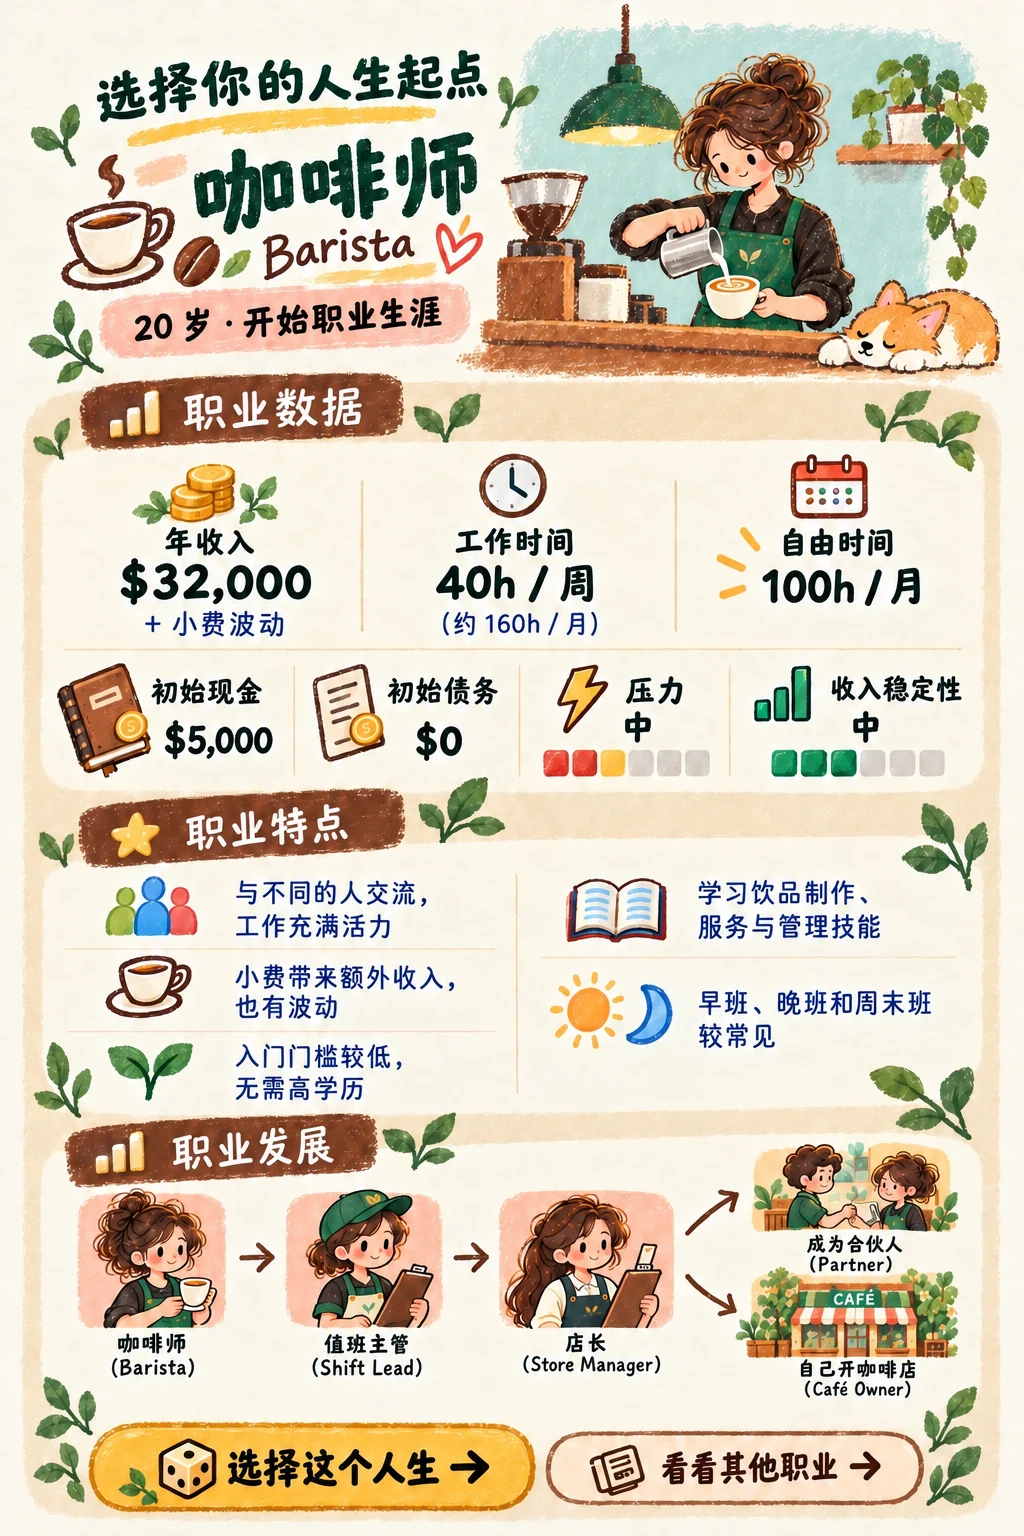
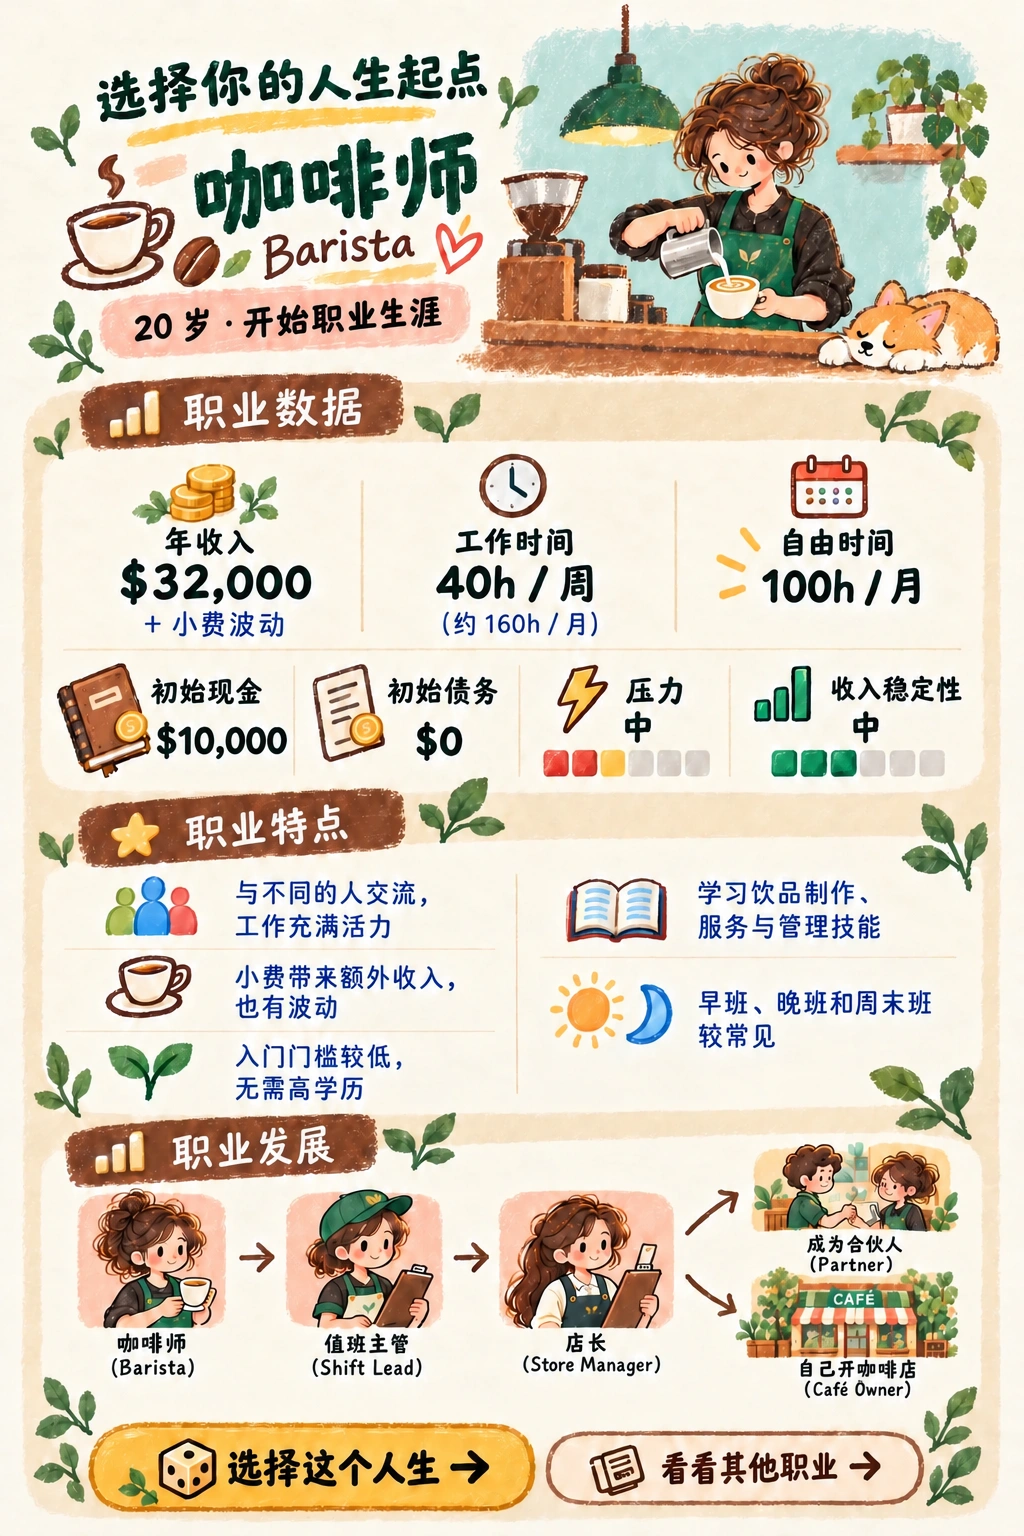
Update barista preview cash artwork and preserve career navigation

diff --git a/sw.js b/sw.js
@@ -1,5 +1,5 @@
-const CACHE='wealth-life-v28.3-home-end1';
-const ASSETS=["./map-card-data.js?v=28.3-mapcards1", "./map-card-rules.js?v=28.3-mapcards1", "./map-card-system.js?v=28.3-mapcards1", "./map-card.css?v=28.3-mapcards1", "./assets/career/map-pet-unwell.webp", "./assets/career/map-pet-injury.webp", "./assets/career/map-pet-companion.webp", "./assets/career/map-pet-social.webp", "./assets/career/map-pet-mishap.webp", "./assets/career/map-investment-studio.webp", "./assets/career/map-investment-bun-shop.webp", "./assets/career/map-investment-laundry.webp"] .concat(["./cafe-rules.js?v=28.3-manager1","./cafe-system.js?v=28.3-manager1","./career-entry.js?v=28.3-entry1","./career-entry.css?v=28.3-entry1","./assets/career/shift-promotion-pending.webp","./assets/career/shift-promotion-preview.webp","./assets/career/coffee-course.webp","./pet-adoption.js?v=28.3-candidate1","./candidate-art.js?v=28.3-candidate1","./assets/career/barista-portrait.webp","./assets/career/pet-time-shortage.webp","./assets/career/pet-funds-shortage.webp","./assets/career/pet-crocodile-care.webp","./assets/career/bank-application.webp","./assets/career/bank-payment.webp","./housing-art.js?v=28.3-housing1","./assets/career/housing-select.webp","./assets/career/housing-reserve.webp","./assets/career/living-cost.webp","./return-art.js?v=28.3-return1","./assets/career/insurance.webp","./assets/career/return-energy.webp","./assets/career/return-stress.webp","./assets/career/payday.webp","./health-art.js?v=28.3-health1","./assets/career/rest-arrange.webp","./assets/career/rest-complete.webp","./assets/career/hospital-recovery.webp","./assets/career/month-recovery.webp","./education-art.js?v=28.3-education1","./assets/career/degrees.webp","./assets/career/associate-preview.webp","./learning-art.js?v=28.3-learning1","./assets/career/learning.webp","./assets/career/management-course.webp","./assets/career/service-course.webp","./hobby-art.js?v=28.3-room2","./assets/career/hobbies.webp","./home-scene.js?v=28.3-home-end1","./home-scene.css?v=28.3-candidate1","./assets/career/home.webp","./release-info.js?v=28.3-internal1","./financial-crisis.js?v=28.3-internal1","./four-state.js?v=28.3-internal1","./rest-state.js?v=28.3-internal1","./coffee-salary.js?v=28.3-internal1","./housing-lease.js?v=28.3-internal1","./pet-care.js?v=28.3-internal1","./necessary-bills.js?v=28.3-internal1","./recovery-ui.js?v=28.3-internal1","./medical-insurance.js?v=28.3-internal1","./recovery-rules.js?v=28.3-internal1","./time-ledger.js?v=28.3-internal1","./time-flow.js?v=28.3-home-end1","./assets/career/town.webp","./coffee-career.js?v=28.3-mapcards1", "./assets/career/barista-staff.webp", "./assets/career/barista-busy.webp", "./assets/career/barista-cut.webp", "./assets/career/barista-tip.webp", "./assets/career/barista-departure.webp", "./assets/career/shift-training.webp", "./assets/career/shift-schedule.webp", "./assets/career/shift-schedule-success.webp", "./assets/career/shift-schedule-failure.webp", "./assets/career/shift-complaint.webp", "./assets/career/shift-complaint-success.webp", "./assets/career/shift-complaint-failure.webp", "./assets/career/shift-acting.webp", "./assets/career/shift-acting-success.webp", "./assets/career/shift-acting-failure.webp", "./assets/career/shift-praise.webp", "./assets/career/intro.webp"] .concat(["./shift-lead.js?v=28.3-internal1","./shift-lead.css?v=28.3-internal1","./paper.css?v=28.3-internal1",'./coffee.js?v=28.3-internal1','./town.js?v=28.3-internal1','./','./index.html','./core.js','./flow.js?v=28.3-internal1','./journey.js?v=28.3-internal1','./batch.js?v=28.3-mapcards1','./revision.js?v=28.3-internal1','./annual.js?v=28.3-internal1','./core.js?v=28.3-mapcards1','./presentation.js?v=28.3-candidate1','./presentation.css?v=28.3-internal1','./city.svg','./manifest.webmanifest','./icons/icon-192.png','./icons/icon-512.png']));
+const CACHE='wealth-life-v28.3-entry2';
+const ASSETS=["./map-card-data.js?v=28.3-mapcards1", "./map-card-rules.js?v=28.3-mapcards1", "./map-card-system.js?v=28.3-mapcards1", "./map-card.css?v=28.3-mapcards1", "./assets/career/map-pet-unwell.webp", "./assets/career/map-pet-injury.webp", "./assets/career/map-pet-companion.webp", "./assets/career/map-pet-social.webp", "./assets/career/map-pet-mishap.webp", "./assets/career/map-investment-studio.webp", "./assets/career/map-investment-bun-shop.webp", "./assets/career/map-investment-laundry.webp"] .concat(["./cafe-rules.js?v=28.3-manager1","./cafe-system.js?v=28.3-manager1","./career-entry.js?v=28.3-entry2","./career-entry.css?v=28.3-entry2","./assets/career/shift-promotion-pending.webp","./assets/career/shift-promotion-preview.webp","./assets/career/coffee-course.webp","./pet-adoption.js?v=28.3-candidate1","./candidate-art.js?v=28.3-candidate1","./assets/career/barista-portrait.webp","./assets/career/pet-time-shortage.webp","./assets/career/pet-funds-shortage.webp","./assets/career/pet-crocodile-care.webp","./assets/career/bank-application.webp","./assets/career/bank-payment.webp","./housing-art.js?v=28.3-housing1","./assets/career/housing-select.webp","./assets/career/housing-reserve.webp","./assets/career/living-cost.webp","./return-art.js?v=28.3-return1","./assets/career/insurance.webp","./assets/career/return-energy.webp","./assets/career/return-stress.webp","./assets/career/payday.webp","./health-art.js?v=28.3-health1","./assets/career/rest-arrange.webp","./assets/career/rest-complete.webp","./assets/career/hospital-recovery.webp","./assets/career/month-recovery.webp","./education-art.js?v=28.3-education1","./assets/career/degrees.webp","./assets/career/associate-preview.webp","./learning-art.js?v=28.3-learning1","./assets/career/learning.webp","./assets/career/management-course.webp","./assets/career/service-course.webp","./hobby-art.js?v=28.3-room2","./assets/career/hobbies.webp","./home-scene.js?v=28.3-home-end1","./home-scene.css?v=28.3-candidate1","./assets/career/home.webp","./release-info.js?v=28.3-internal1","./financial-crisis.js?v=28.3-internal1","./four-state.js?v=28.3-internal1","./rest-state.js?v=28.3-internal1","./coffee-salary.js?v=28.3-internal1","./housing-lease.js?v=28.3-internal1","./pet-care.js?v=28.3-internal1","./necessary-bills.js?v=28.3-internal1","./recovery-ui.js?v=28.3-internal1","./medical-insurance.js?v=28.3-internal1","./recovery-rules.js?v=28.3-internal1","./time-ledger.js?v=28.3-internal1","./time-flow.js?v=28.3-home-end1","./assets/career/town.webp","./coffee-career.js?v=28.3-mapcards1", "./assets/career/barista-staff.webp", "./assets/career/barista-busy.webp", "./assets/career/barista-cut.webp", "./assets/career/barista-tip.webp", "./assets/career/barista-departure.webp", "./assets/career/shift-training.webp", "./assets/career/shift-schedule.webp", "./assets/career/shift-schedule-success.webp", "./assets/career/shift-schedule-failure.webp", "./assets/career/shift-complaint.webp", "./assets/career/shift-complaint-success.webp", "./assets/career/shift-complaint-failure.webp", "./assets/career/shift-acting.webp", "./assets/career/shift-acting-success.webp", "./assets/career/shift-acting-failure.webp", "./assets/career/shift-praise.webp", "./assets/career/intro.webp"] .concat(["./shift-lead.js?v=28.3-internal1","./shift-lead.css?v=28.3-internal1","./paper.css?v=28.3-internal1",'./coffee.js?v=28.3-internal1','./town.js?v=28.3-internal1','./','./index.html','./core.js','./flow.js?v=28.3-internal1','./journey.js?v=28.3-internal1','./batch.js?v=28.3-mapcards1','./revision.js?v=28.3-internal1','./annual.js?v=28.3-internal1','./core.js?v=28.3-mapcards1','./presentation.js?v=28.3-candidate1','./presentation.css?v=28.3-internal1','./city.svg','./manifest.webmanifest','./icons/icon-192.png','./icons/icon-512.png']));
 self.addEventListener('install',e=>{self.skipWaiting();e.waitUntil(caches.open(CACHE).then(c=>c.addAll(ASSETS)))});
 self.addEventListener('activate',e=>e.waitUntil(Promise.all([caches.keys().then(keys=>Promise.all(keys.filter(k=>k.startsWith('wealth-life-')&&k!==CACHE).map(k=>caches.delete(k)))),self.clients.claim()])));
 // Register the cache lifetime synchronously while the fetch event is active.

diff --git a/career-entry.css b/career-entry.css
@@ -13,5 +13,19 @@
 #home.career-preview #coffeeIntro .coffee-intro-choose{position:static;width:100%;min-height:48px;padding:12px;left:auto;bottom:auto;background:#efd16e;font-size:18px}
 
 #home.career-preview #newGame>label:first-of-type{display:none}
-.career-entry-preview-art{position:relative;aspect-ratio:1086/370;overflow:hidden;border-radius:14px}
+.career-entry-preview-art{position:relative;aspect-ratio:1024/1410;overflow:hidden;border-radius:14px}
 #home.career-preview #coffeeIntro .career-entry-preview-art img{position:absolute;left:0;top:0;width:100%;height:auto}
+/* Preview the corrected poster; real controls below it keep the original actions. */
+#home.career-preview #coffeeIntro .coffee-intro-toolbar,
+#home.career-preview #coffeeIntro .coffee-intro-text,
+#home.career-preview #coffeeIntro .coffee-intro-choose,
+#home.career-preview #coffeeIntro .coffee-intro-note,
+#home.career-preview #newGame>label,
+#home.career-preview #lifeGoal,
+#home.career-preview #goalPreview{display:none!important}
+#home.career-preview #coffeeIntro .coffee-intro-board{grid-template-columns:minmax(0,1fr)}
+#home.career-preview #wlJob .coffee-paper-scene{position:static;padding:0}
+#home.career-preview #wlJob .coffee-paper-scene img{max-width:none}
+#home.career-preview #newGame>.btns{display:flex;gap:10px}
+#home.career-preview #start,#home.career-preview #cancel{flex:1;width:auto;min-height:48px!important;font-size:18px}
+#home.career-preview #cancel{background:#f2e9d3;color:#30473c}

diff --git a/career-entry.js b/career-entry.js
@@ -9,6 +9,8 @@
  function preview(){starting=false;$('job').value='barista';$('job').dispatchEvent(new Event('change',{bubbles:true}));const img=$('coffeeIntro')?.querySelector('.coffee-paper-scene img');if(img){const frame=document.createElement('div');frame.className='career-entry-preview-art';img.before(frame);frame.append(img)}setMode('preview');$('coffeeIntro')?.scrollIntoView({block:'start'});}
  const originalMarkup=window.coffeeStartMarkup;
  window.coffeeStartMarkup=function(){return originalMarkup().replace('← 返回存档','← 返回职业选择')};
+ $('start').textContent='选择这个人生';
+ $('cancel').textContent='看看其他职业';
  $('careerPreview').onclick=preview;
  $('careerLoadSaves').onclick=()=>{setMode('saves');buildHome();$('slots').querySelector('button')?.focus()};
  const originalBuild=buildHome;

diff --git a/index.html b/index.html
@@ -582,8 +582,8 @@ window.v245OpenHousing=()=>document.getElementById('housingBtn').click();
 <script src="housing-art.js?v=28.3-housing1"></script>
 <script src="pet-adoption.js?v=28.3-candidate1"></script>
 <script src="candidate-art.js?v=28.3-candidate1"></script>
-<link rel="stylesheet" href="career-entry.css?v=28.3-entry1">
-<script src="career-entry.js?v=28.3-entry1"></script>
+<link rel="stylesheet" href="career-entry.css?v=28.3-entry2">
+<script src="career-entry.js?v=28.3-entry2"></script>
 <script src="cafe-rules.js?v=28.3-manager1"></script>
 <script src="cafe-system.js?v=28.3-manager1"></script>
 <script src="map-card-data.js?v=28.3-mapcards1"></script>

diff --git a/qa/browser-month-loop.py b/qa/browser-month-loop.py
@@ -63,7 +63,7 @@ with sync_playwright() as p:
  ctx=b.new_context();page=ctx.new_page();page.goto('http://127.0.0.1:8765',wait_until='networkidle')
  page.evaluate('navigator.serviceWorker.ready');page.reload(wait_until='networkidle')
  page.wait_for_function('navigator.serviceWorker.controller!==null')
- assert page.evaluate('caches.keys()')==['wealth-life-v28.3-home-end1']
+ assert page.evaluate('caches.keys()')==['wealth-life-v28.3-entry2']
  ctx.set_offline(True);page.reload(wait_until='networkidle')
  (page.locator('#careerPreview') if page.locator('#careerPreview').is_visible() else page.get_by_role('button',name='存档 1 · 新游戏',exact=True)).click();page.locator('#job').select_option('barista')
  assert page.locator('#coffeeIntro img').evaluate('(x)=>x.complete&&x.naturalWidth>0')

diff --git a/docs/confirmed/opening-review-2026-10-25.md b/docs/confirmed/opening-review-2026-10-25.md
@@ -1,0 +1,29 @@
+# 开场逐页核对（2026-10-25）
+
+本文件记录本次用户逐页确认；不替代尚未核对的后续规则。
+
+- 当前优先跑通咖啡师，其他职业暂不安排。
+- 用户确认职业选择页人物图使用 `assets/career/barista-portrait.webp`（棕色丸子头、墨绿围裙、手捧咖啡）。
+- 用户确认保留人物图下方现有按钮。代码实际文案为“查看职业预览”，不改为“选择该页”；口述“浏览”指此按钮。
+- 该按钮打开职业预览，现有插画来源为 `assets/career/intro.webp`。
+
+## 初始现金查证（尚非本次新决定）
+
+用户询问此前确定的是5000还是10000。现有仓库记录一致采用10000：
+
+- `QA_CHECKPOINT_2026_10_24.md`：“新存档现金10000……职业介绍旧5000已改10000。”
+- `CODEX_HANDOFF.md`：“初始现金10000，高中咖啡师已就业，不预发工资。工资月末一次。”
+- `progress/career-entry-2026-10-25.md` 说明原插画5000为旧值，页面屏蔽旧图静态数据并显示真实职业信息。
+- `qa/opening-state.test.cjs` 验证新档现金、年初现金、年初净资产均为10000。
+
+原图字节保留；本次查询没有改变现金规则或玩家存档。完整私人聊天未入库，本次结论依据已保存交接/规则记录及代码，非重新查阅原始聊天。
+
+## 后续用户确认及已执行
+
+- 用户明确要求将图片初始现金改成一万，只推进此预览步骤。
+- 用户随后确认两个按钮保留原称呼：“选择这个人生”“看看其他职业”；后者返回上一页职业选择，不切换到旧职业表。
+- 图片使用编辑后的版本替换运行资源 `assets/career/intro.webp`。旧图完整保存在 `assets/archive/intro-before-cash-10000.webp`，不进SW缓存及部署。原459候选不改动；统一插画清单登记派生来源及新哈希。
+- 预览展示整张职业信息（裁掉画内旧按钮区域），下方显示两个真实按钮，沿用原开始/返回动作。隐藏旧的重复介绍、工具栏、额外按钮及目标表单，目标值沿原默认值保留，本次未重写目标规则或新建流程。
+- 实际新游戏本来就是10000，本次不更改现金计算、玩家存档或后续玩法。图片编辑采用生成式编辑，保留原画构图与内容，非逐像素同一性承诺。
+- 隔离Chromium验证：预览/返回不创建存档、返回职业选择、仅两个按钮、390px无横向溢出、选择创建现金10000/月0；证据 `qa/browser-evidence/entry-preview.json`。资源清单、开局、候选路由3个相关测试通过。
+- 缓存 `wealth-life-v28.3-entry2`，HTML/SW脚本样式查询版本一致。未推送、合并、部署。

diff --git a/CODEX_HANDOFF.md b/CODEX_HANDOFF.md
@@ -1,5 +1,9 @@
 # 财富人生 Wealth Life — Codex 接手说明
 
+## 开场逐页核对补充（2026-10-25）
+
+用户确认咖啡师人物及“查看职业预览”按钮；要求预览图片初始现金改为10000，预览下方保留“选择这个人生”“看看其他职业”（返回职业选择）。已接入原开始/返回流程，旧图归档，详见 [开场确认记录](docs/confirmed/opening-review-2026-10-25.md)。缓存 `wealth-life-v28.3-entry2`，相关资源/开局测试及隔离Chromium预览返回/新建10000验证通过。仅本地保存，未上传、合并或部署。
+
 ## 本地增量补充：0h居家月结（2026-10-25）
 
 在远端 `56e8a535` / V28.3-mapcards1 基础上修复家中0h无月结出口（审查A01），复用原账本与存档；详见 [本轮进度](progress/home-month-end-2026-10-25.md)。38个Node测试通过，隔离Chromium居家确认/读档及原三月闭环通过；缓存 `wealth-life-v28.3-home-end1`。其他缺口仍按下文及原地图检查点处理。本补充为本地保存，未推送、合并或部署。
